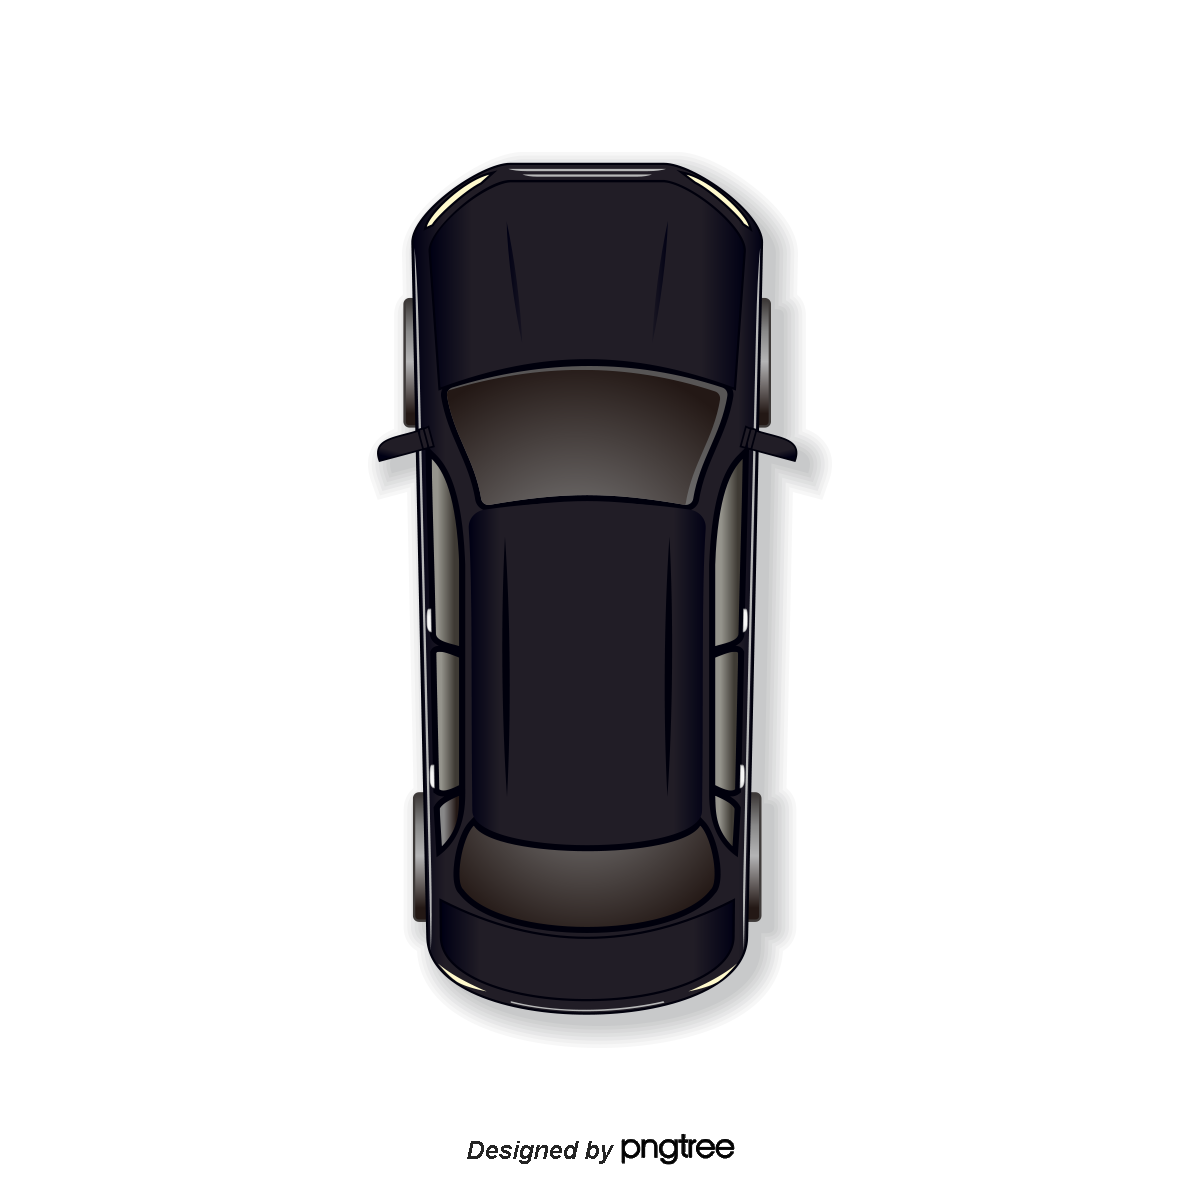
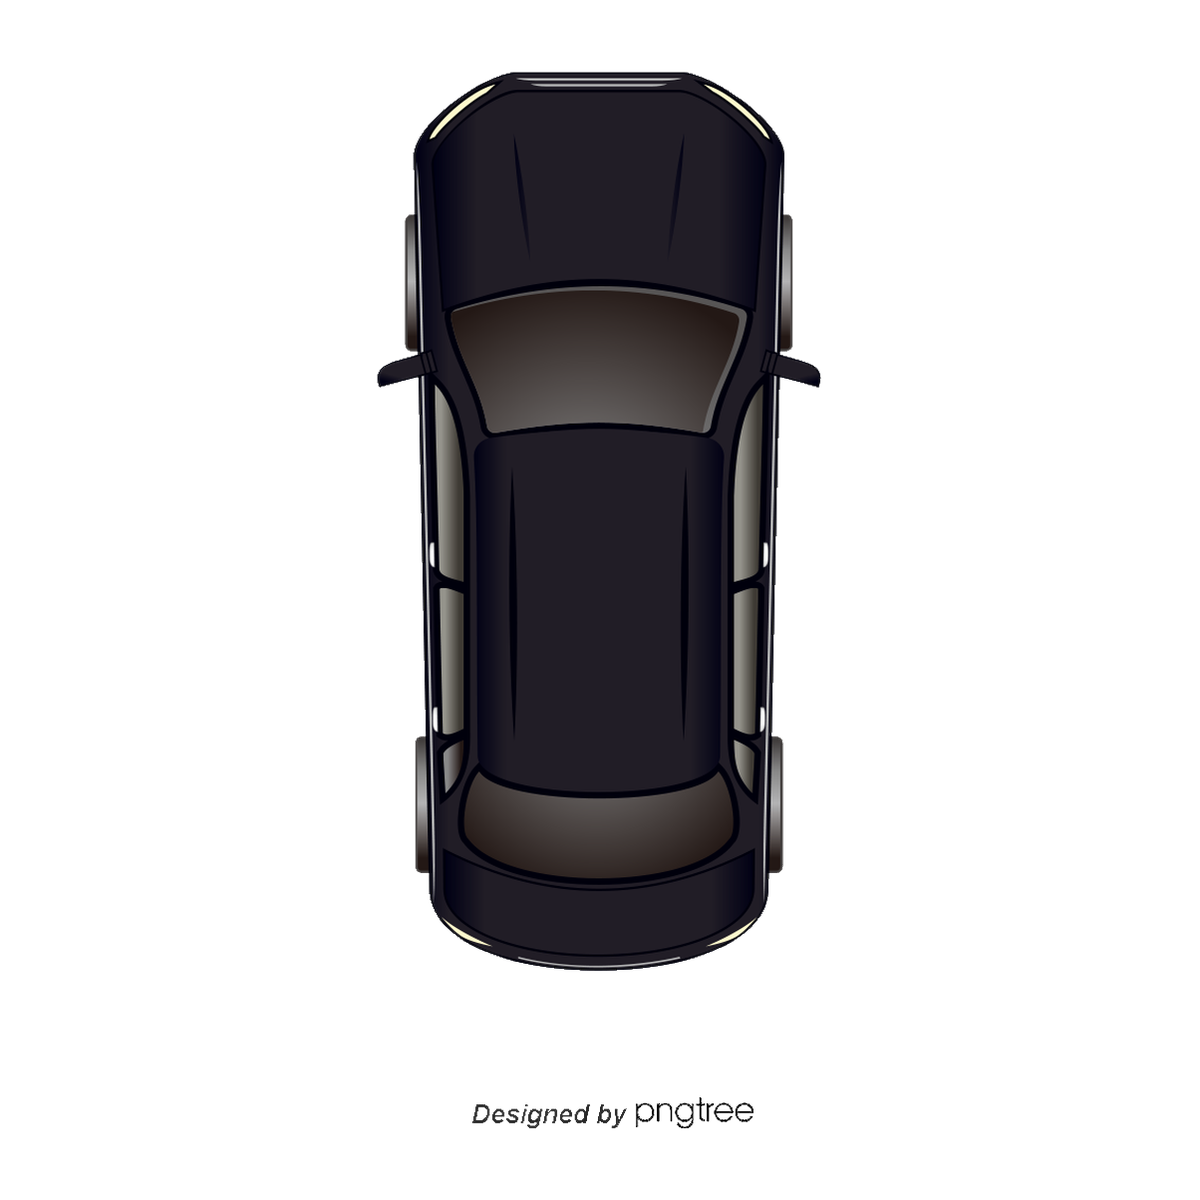
Remove the white outline/blob behind the GPS car marker.
Cleans the sticker border from the icon and softens the live status disc so it no longer shows as a white shadow.

Changed region(s): [[0.3083, 0.0617, 0.7092, 0.8633], [0.4008, 0.8942, 0.6167, 0.9867]]

diff --git a/src/components/GpsLiveMap.tsx b/src/components/GpsLiveMap.tsx
@@ -123,17 +123,18 @@ function makeVehicleDivIcon(
         ? ''
         : '<div style="'
           + 'position:absolute;'
-          + 'width:34px;height:34px;'
+          + 'width:30px;height:30px;'
           + 'border-radius:50%;'
           + 'border:2px solid ' + color + ';'
-          + 'background:rgba(255,255,255,0.95);'
-          + 'box-shadow:0 2px 6px rgba(0,0,0,0.35);'
+          // No solid white fill — it peeked out behind the dark car as a white blob
+          + 'background:rgba(255,255,255,0.15);'
+          + 'box-shadow:0 1px 3px rgba(0,0,0,0.25);'
           + 'z-index:1;'
           + '"></div>')
       + '<img class="gps-car-img" src="/vehicle-marker.png" style="'
       + 'width:' + carSize + 'px;height:' + carSize + 'px;'
       + 'transform:rotate(' + d.heading + 'deg);'
-      + 'filter:drop-shadow(0 1px 2px rgba(0,0,0,0.3));'
+      + 'filter:drop-shadow(0 1px 1px rgba(0,0,0,0.45));'
       + 'position:relative;z-index:2;'
       + 'will-change:transform;'
       + '" alt="" />'
